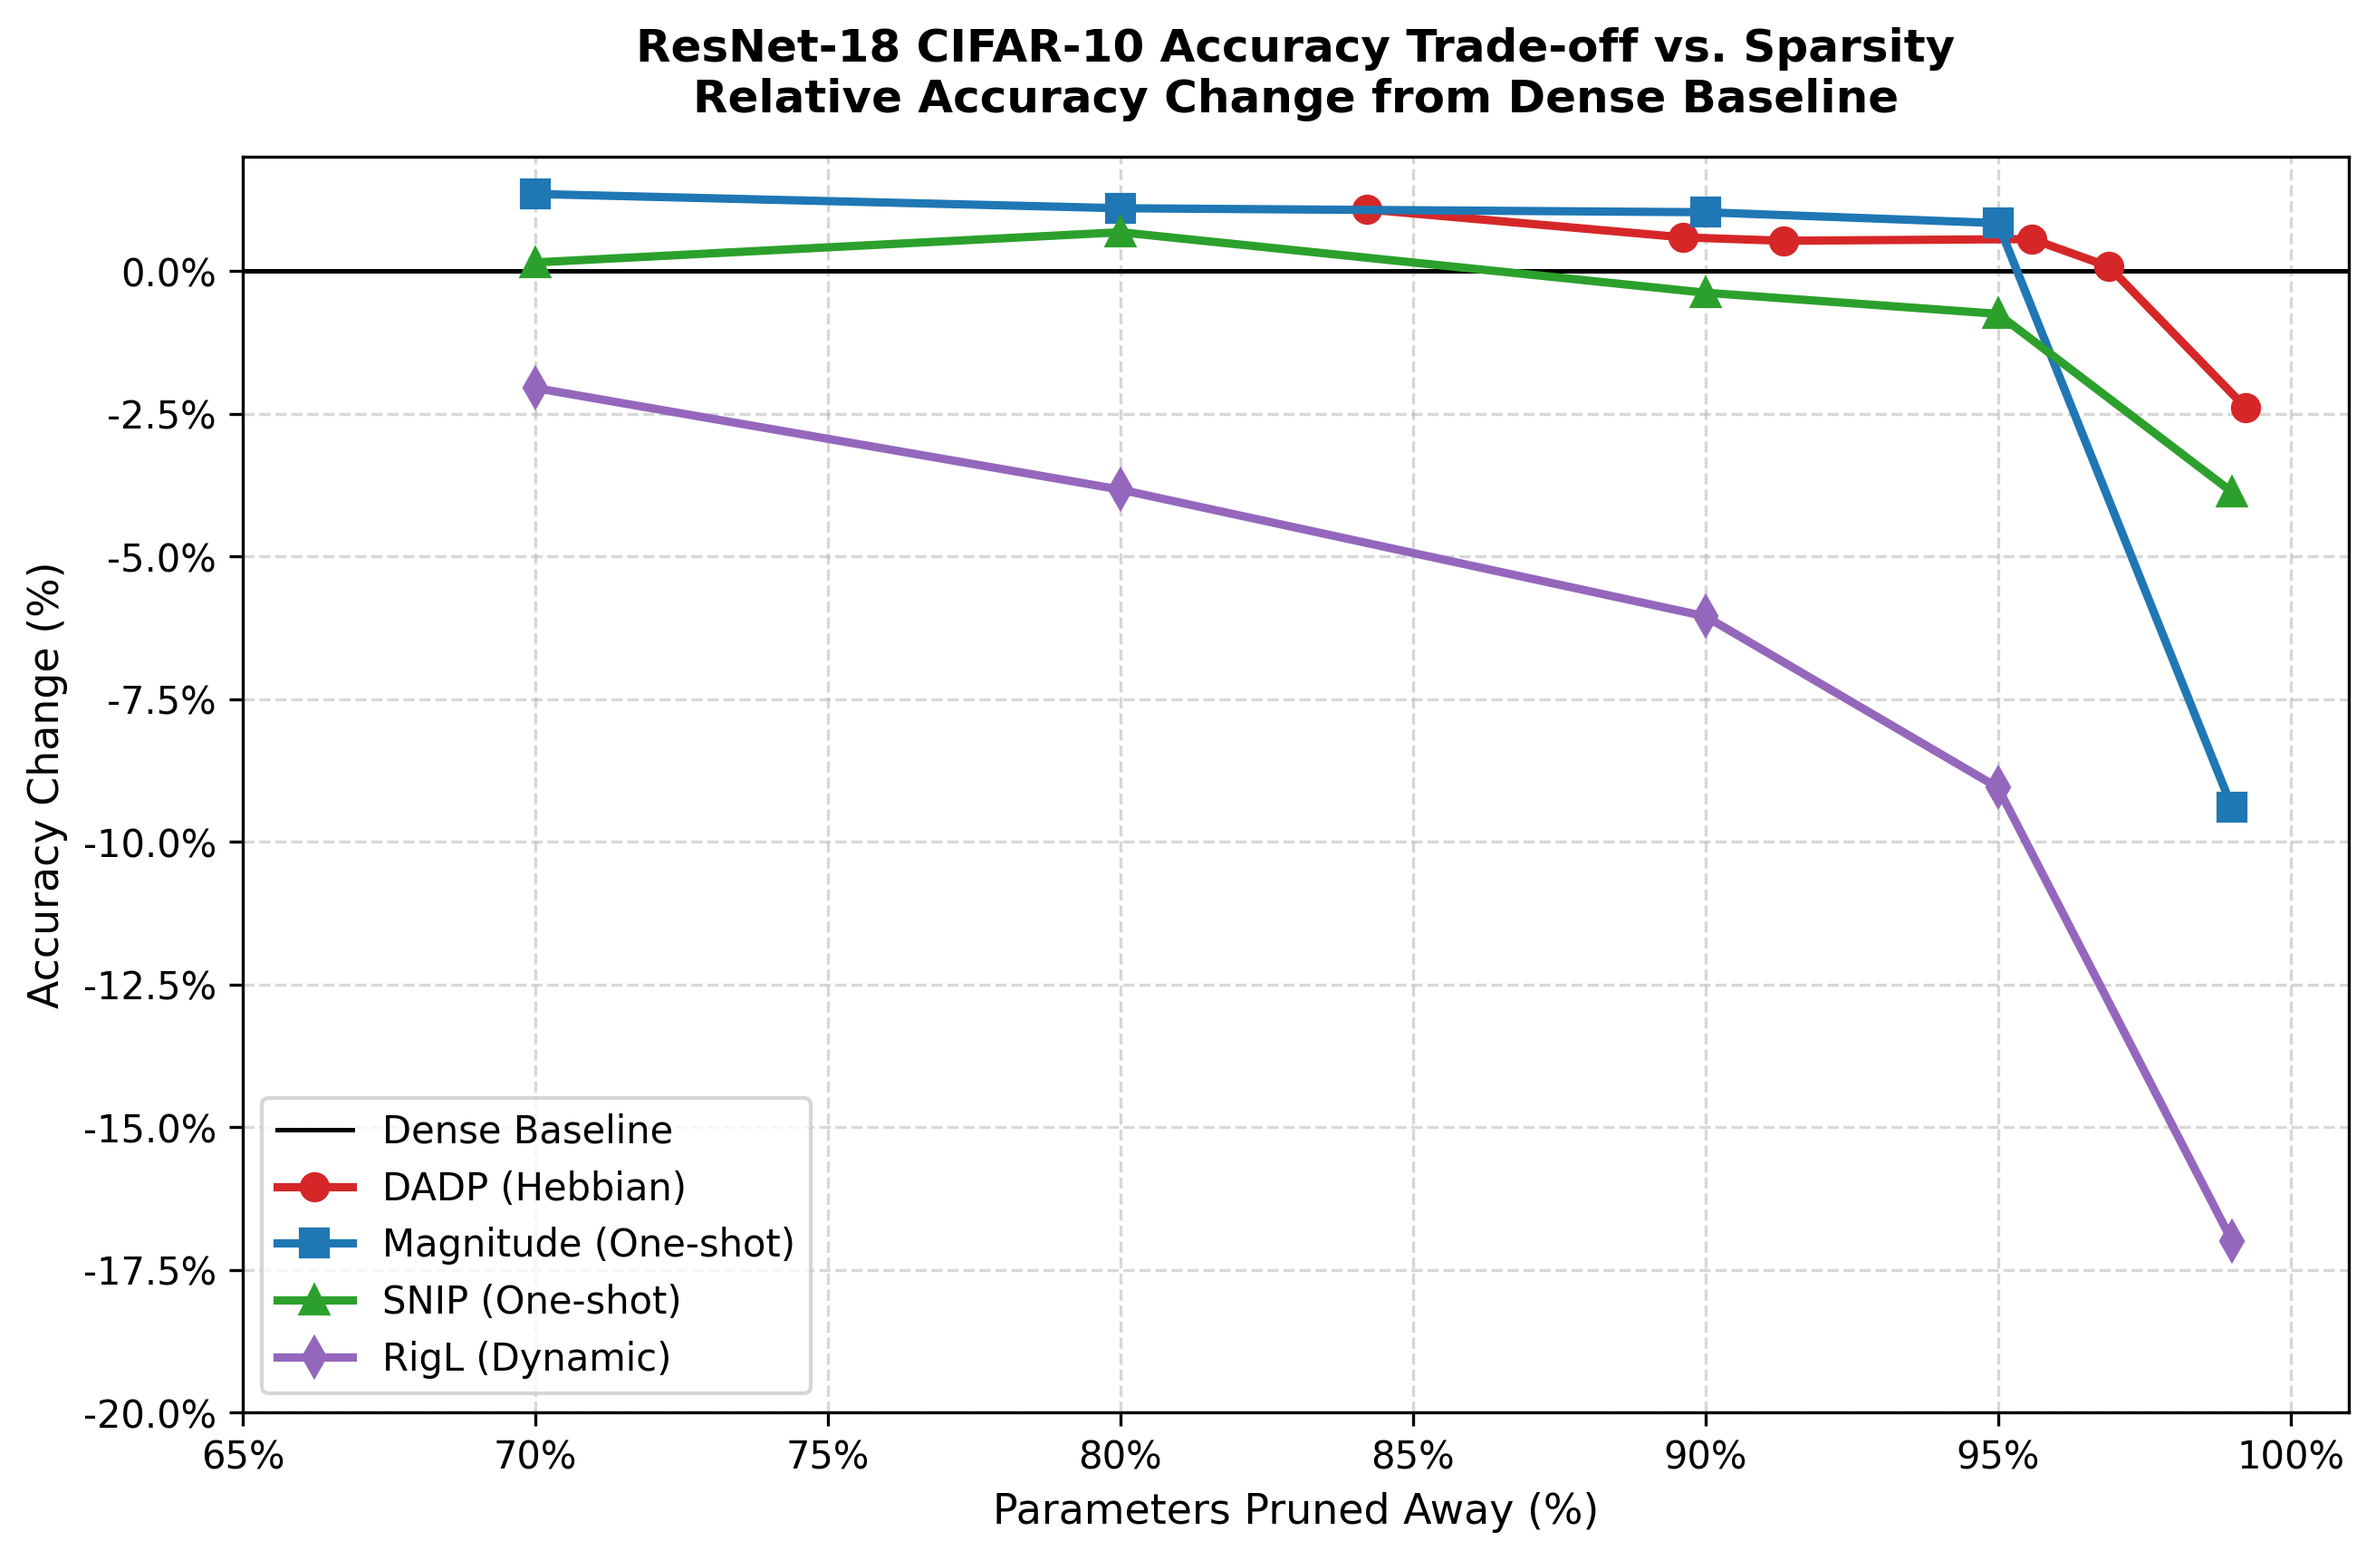
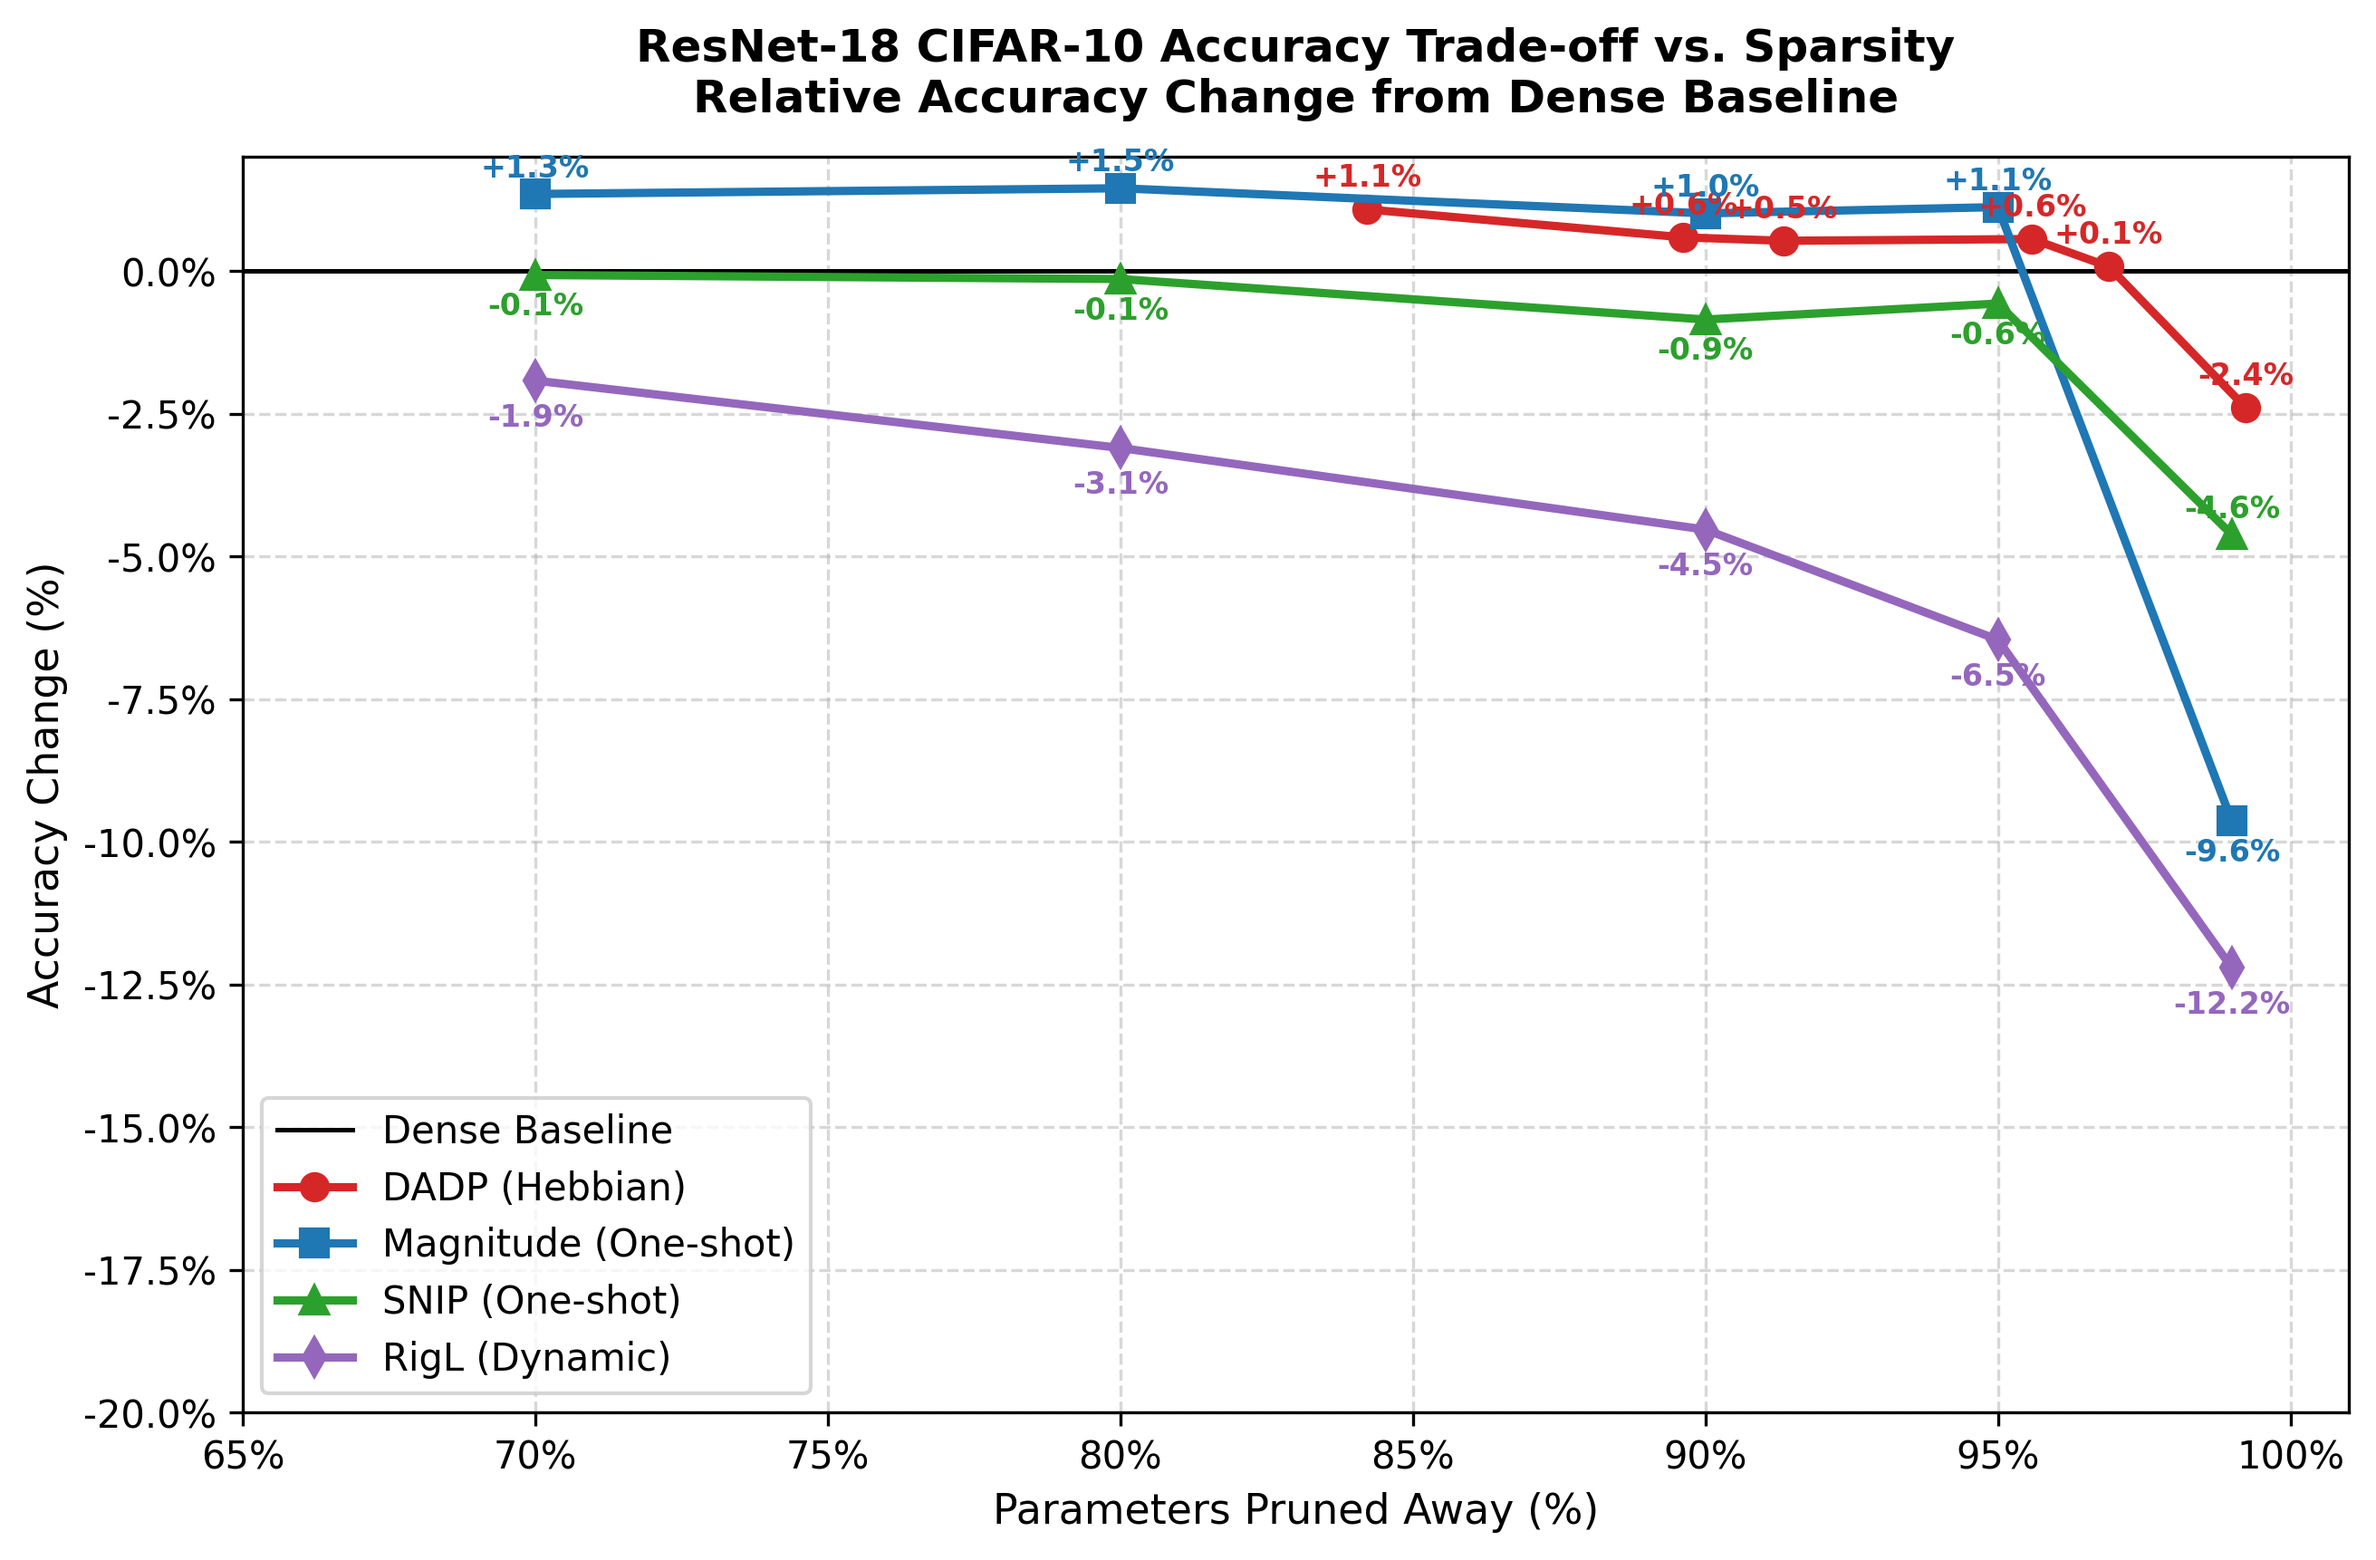
style: add dynamic relative accuracy change annotations to points in VGG-16 and ResNet-18 accuracy trade-off plots

diff --git a/scripts/plotting/plot_resnet18_accuracy_loss.py b/scripts/plotting/plot_resnet18_accuracy_loss.py
@@ -87,6 +87,28 @@ for mode in ['hebbian', 'magnitude', 'snip', 'rigl']:
     plt.plot(x, y, color=colors[mode], marker=markers[mode], markersize=7, 
              linewidth=2.2, label=labels[mode])
 
+# 3. Add text labels on all points dynamically avoiding overlaps
+points_by_sp = {}
+for mode in ['hebbian', 'magnitude', 'snip', 'rigl']:
+    for sp, acc_change in accuracy_changes[mode]:
+        sp_round = round(sp, 1)
+        if sp_round not in points_by_sp:
+            points_by_sp[sp_round] = []
+        points_by_sp[sp_round].append((acc_change, mode, sp))
+
+for sp_round, pts in points_by_sp.items():
+    pts = sorted(pts, key=lambda val: val[0], reverse=True)
+    for rank, (acc_change, mode, sp_orig) in enumerate(pts):
+        if acc_change < -20.0:
+            continue
+        offset_y = 0.3 if rank % 2 == 0 else -0.7
+        if mode == 'hebbian':
+            offset_y = 0.4
+        elif mode == 'rigl':
+            offset_y = -0.8
+        plt.text(sp_orig, acc_change + offset_y, f'{acc_change:+.1f}%', 
+                 color=colors[mode], fontsize=8, ha='center', fontweight='bold')
+
 # Styling to match Song Han's paper layout
 plt.title('ResNet-18 CIFAR-10 Accuracy Trade-off vs. Sparsity\nRelative Accuracy Change from Dense Baseline', fontsize=12, fontweight='bold', pad=12)
 plt.xlabel('Parameters Pruned Away (%)', fontsize=11)

diff --git a/scripts/plotting/plot_vgg16_accuracy_loss.py b/scripts/plotting/plot_vgg16_accuracy_loss.py
@@ -87,6 +87,28 @@ for mode in ['hebbian', 'magnitude', 'snip', 'rigl']:
     plt.plot(x, y, color=colors[mode], marker=markers[mode], markersize=7, 
              linewidth=2.2, label=labels[mode])
 
+# 3. Add text labels on all points dynamically avoiding overlaps
+points_by_sp = {}
+for mode in ['hebbian', 'magnitude', 'snip', 'rigl']:
+    for sp, acc_change in accuracy_changes[mode]:
+        sp_round = round(sp, 1)
+        if sp_round not in points_by_sp:
+            points_by_sp[sp_round] = []
+        points_by_sp[sp_round].append((acc_change, mode, sp))
+
+for sp_round, pts in points_by_sp.items():
+    pts = sorted(pts, key=lambda val: val[0], reverse=True)
+    for rank, (acc_change, mode, sp_orig) in enumerate(pts):
+        if acc_change < -15.0:
+            continue
+        offset_y = 0.3 if rank % 2 == 0 else -0.7
+        if mode == 'hebbian':
+            offset_y = 0.4
+        elif mode == 'rigl':
+            offset_y = -0.8
+        plt.text(sp_orig, acc_change + offset_y, f'{acc_change:+.1f}%', 
+                 color=colors[mode], fontsize=8, ha='center', fontweight='bold')
+
 # Styling to match Song Han's paper layout
 plt.title('VGG-16 CIFAR-10 Accuracy Trade-off vs. Sparsity\nRelative Accuracy Change from Dense Baseline', fontsize=12, fontweight='bold', pad=12)
 plt.xlabel('Parameters Pruned Away (%)', fontsize=11)
